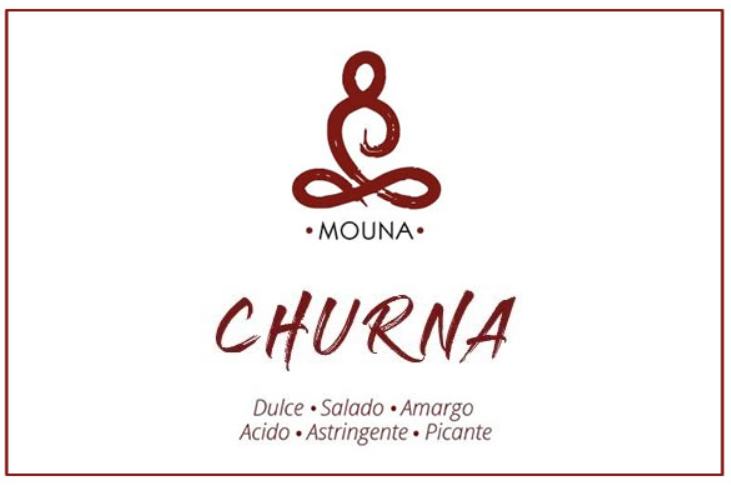
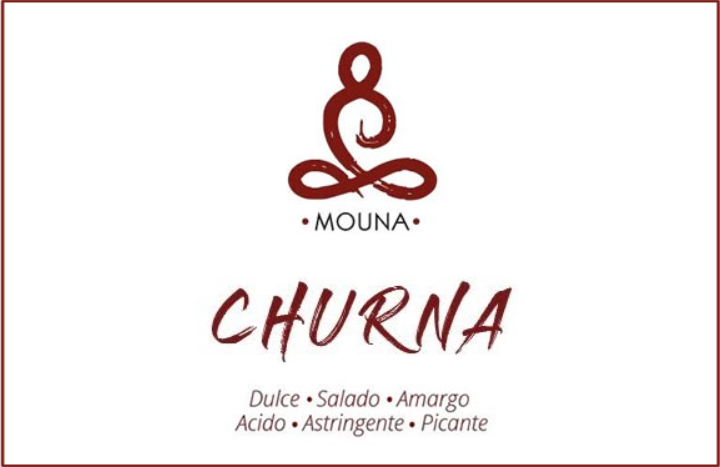
Tagline: 'MOUNA · मौन · silencio'; recorta churna.png al marco rojo (alineado y simétrico)

diff --git a/index.html b/index.html
@@ -35,7 +35,7 @@
     <div class="mn-kicker">Productos saludables caseros</div>
     <h1 class="mn-title">Mouna · Delhi</h1>
     <p class="mn-lede">Alimentos, infusiones y aromas 100% naturales, elaborados con cuidado en el espacio holístico de Mouna. Cada elección acompaña un ritual: despertar, nutrir, aquietar.</p>
-    <div class="mn-tagline">Mouna · <span class="mn-sanskrit" lang="sa">मौन</span> · silencio en sánscrito</div>
+    <div class="mn-tagline">Mouna · <span class="mn-sanskrit" lang="sa">मौन</span> · silencio</div>
   </section>
 
   <main class="mn-pad mn-content" id="catalog"></main>